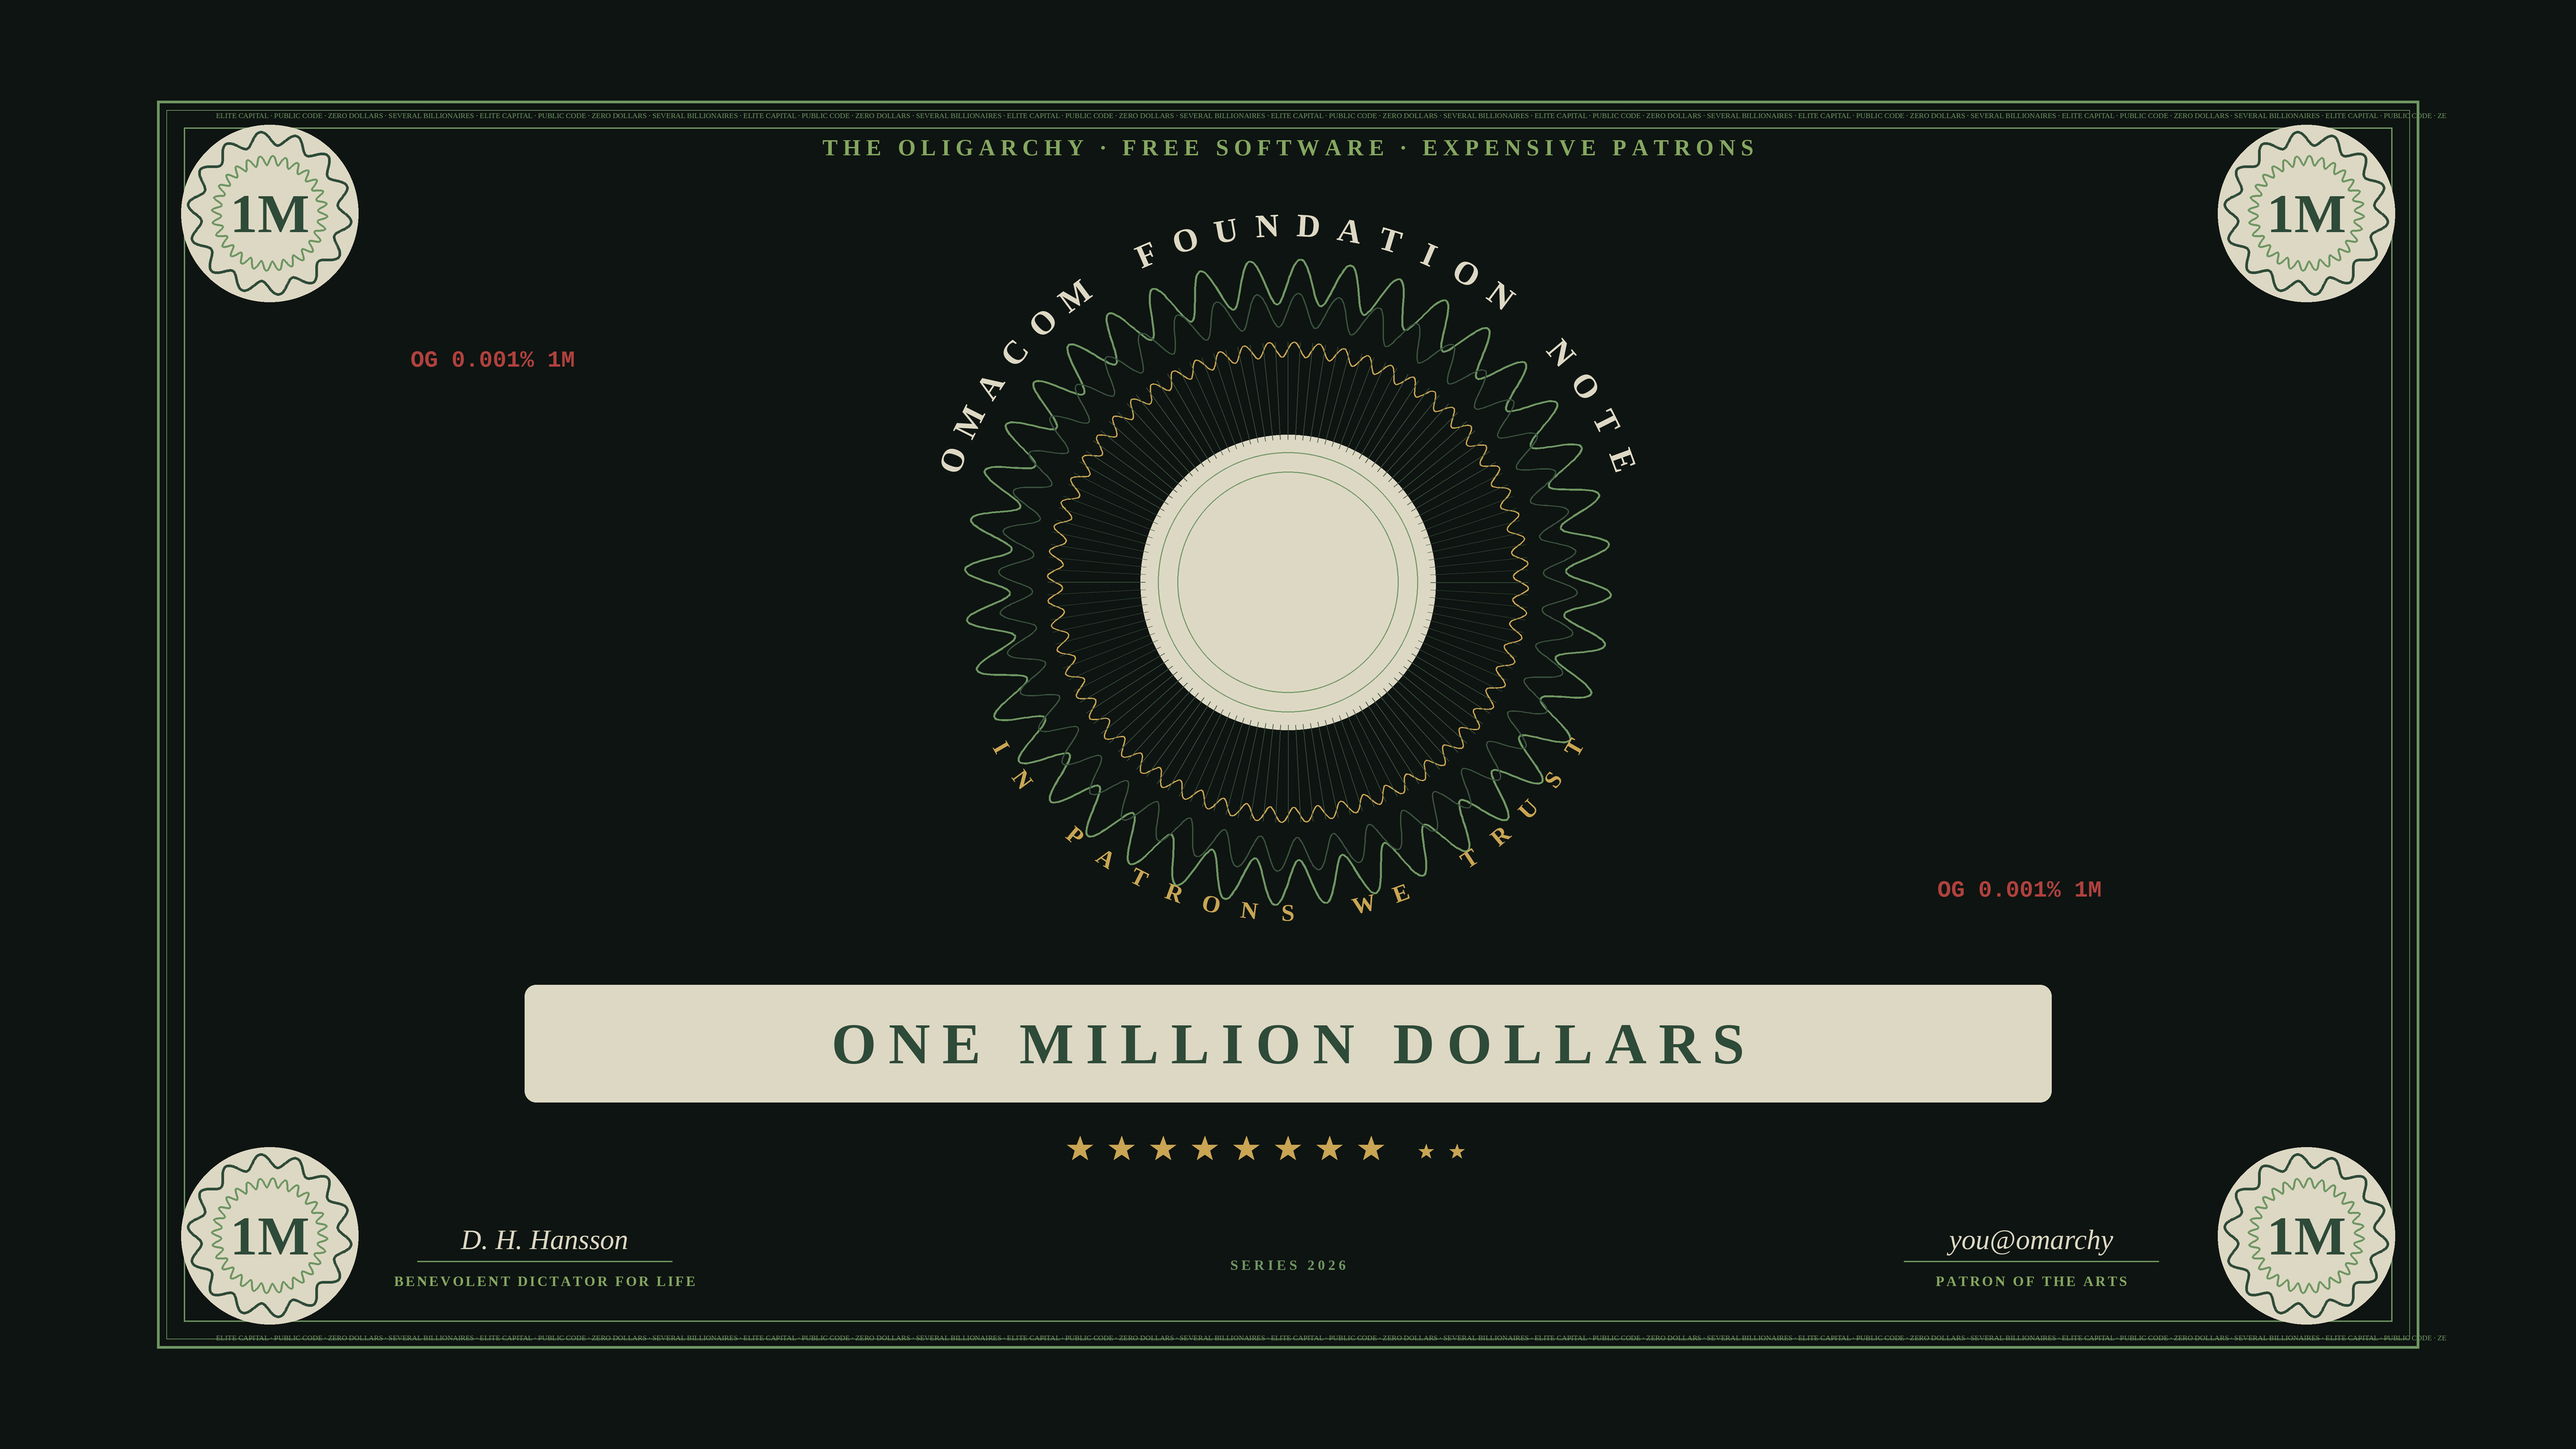
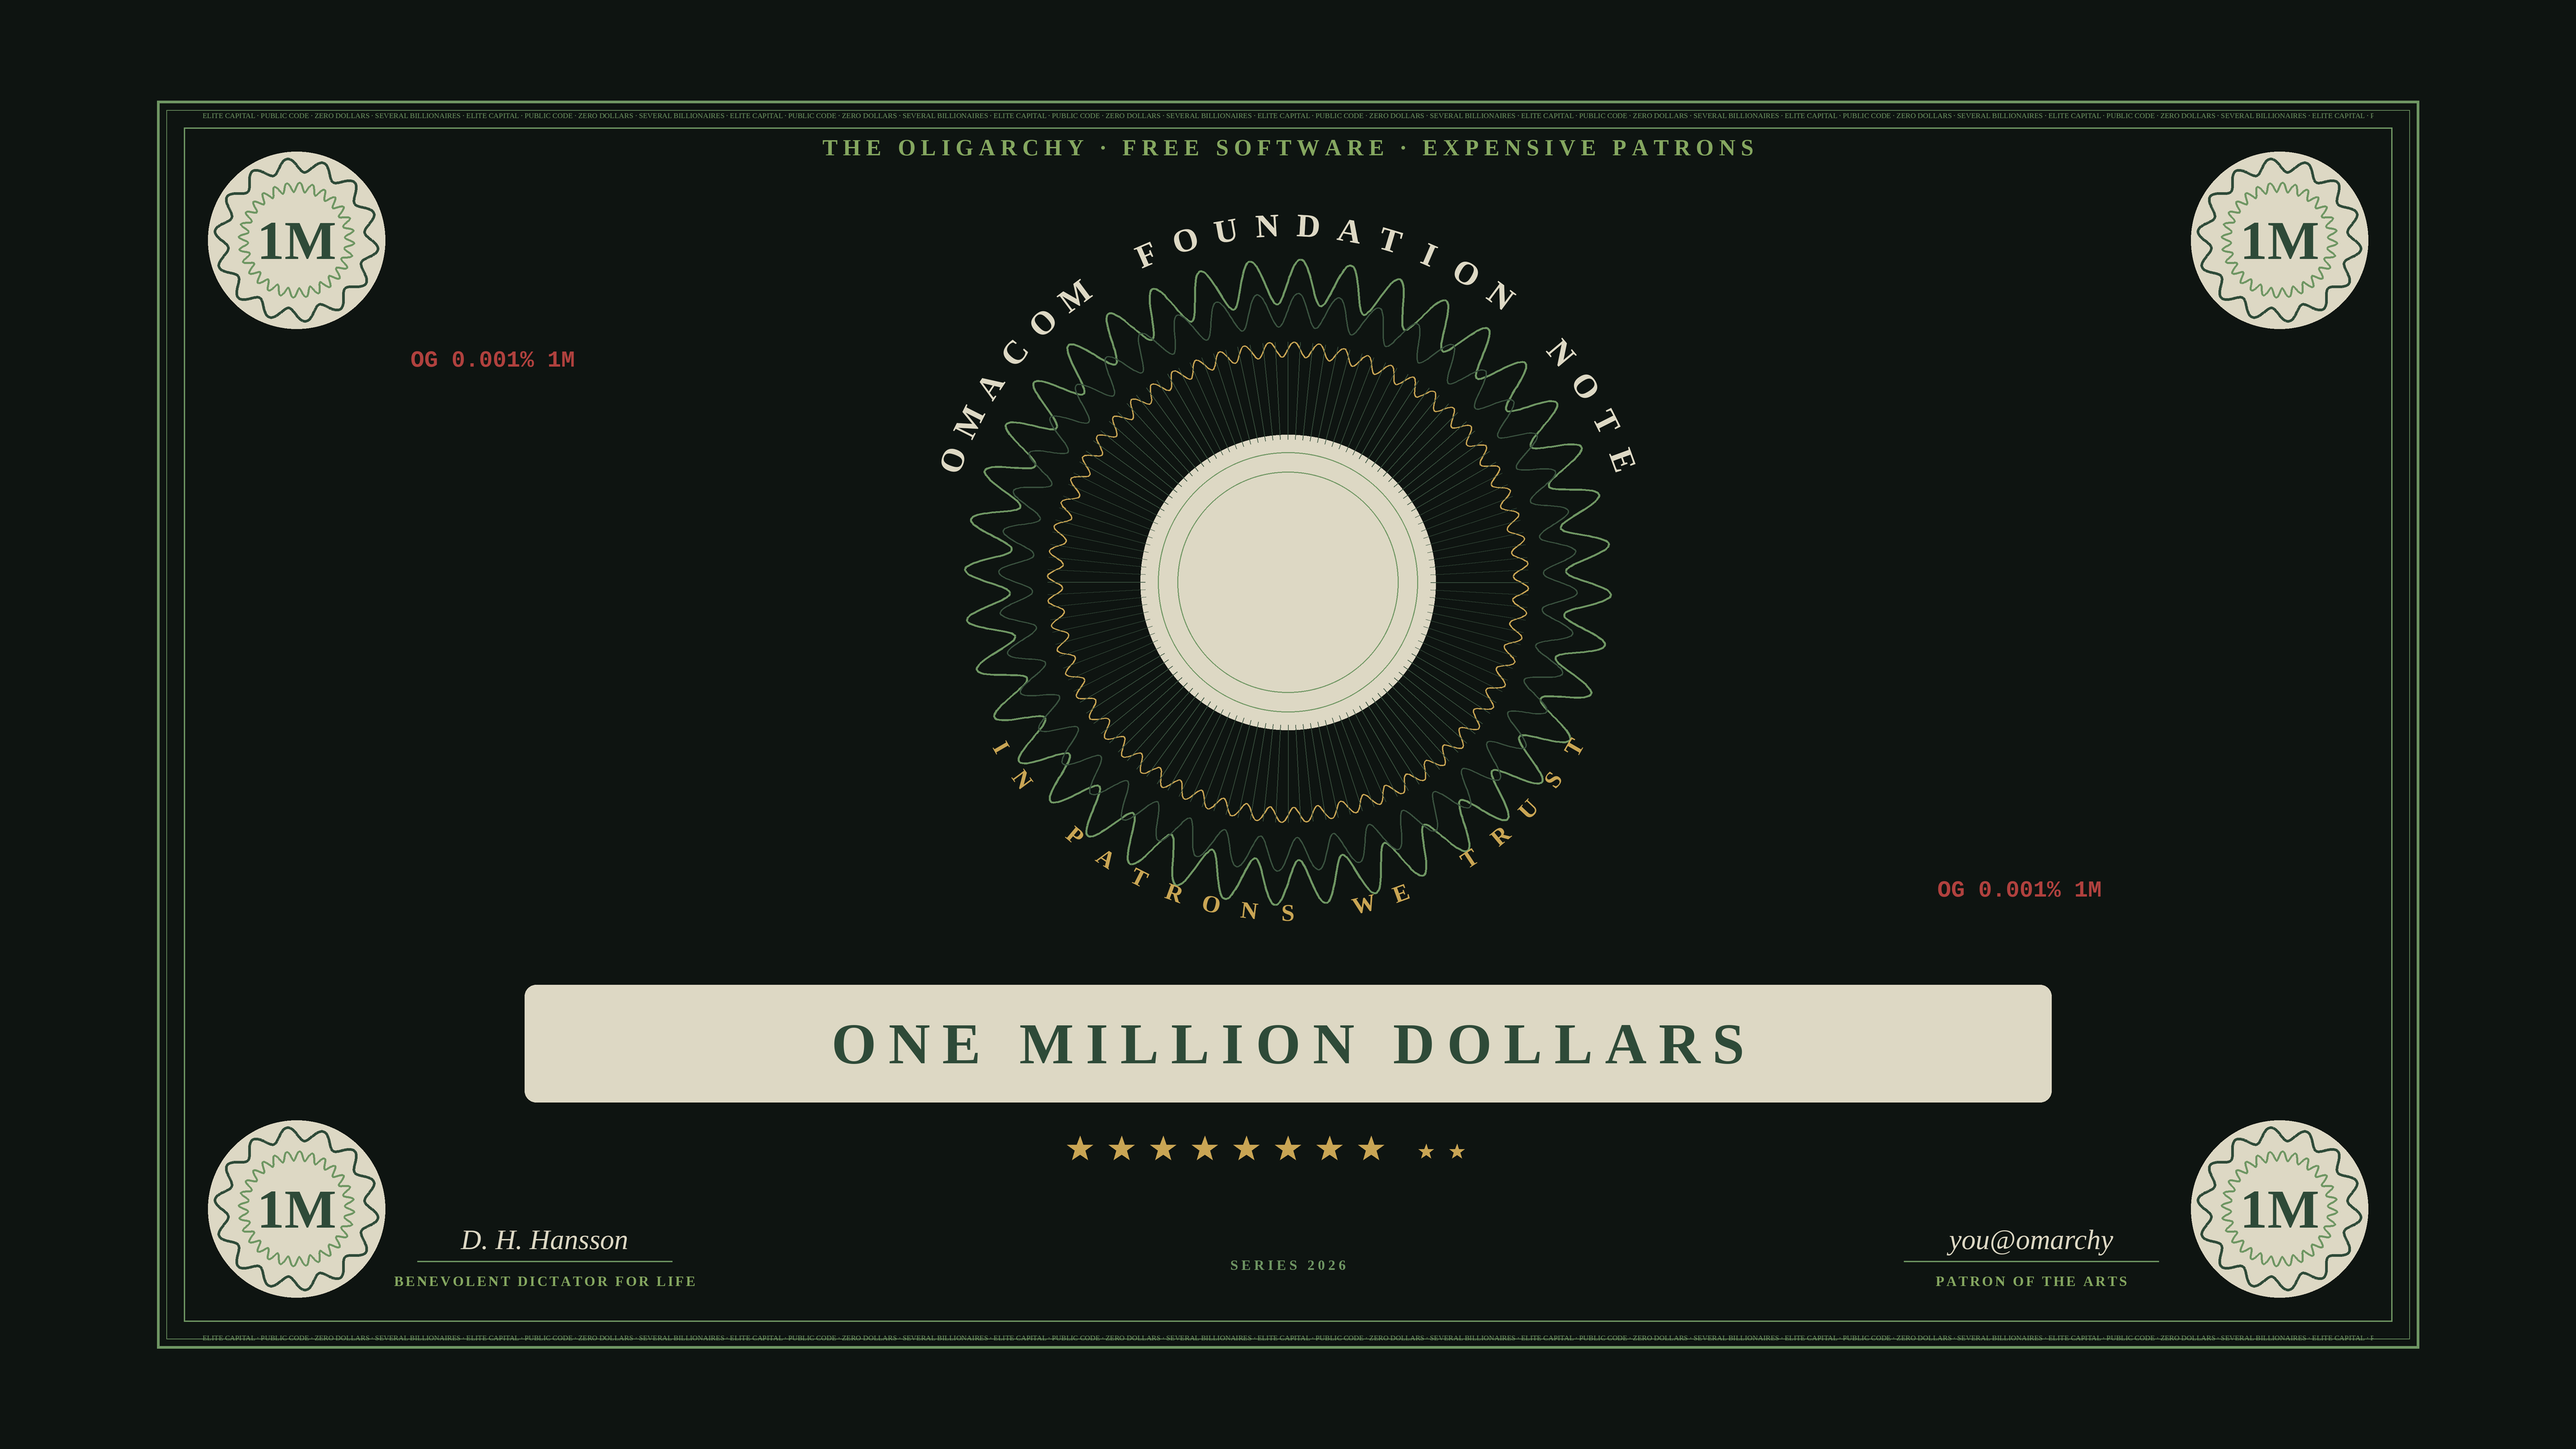
Keep microprint and value seals inside note border
Clip the hero microprint strip at its right bound and move the four 1M
seals 40px inward so they clear every border rule. No other composition
or theme asset changed.

diff --git a/bin/engrave.py b/bin/engrave.py
@@ -263,17 +263,31 @@ class Plate:
             )
             self.check_safe(m, m, self.w - m, self.h - m, "border rule")
 
-    def microprint(self, y, color=GREEN, size=11, text=None, x0=130, x1=None):
+    def microprint(self, y, color=GREEN, size=11, text=None, x0=130, x1=None,
+                   clip=False):
         """A line of tiny repeated text between the border rules. Decorative."""
         text = text or MICROPRINT
         fnt = self.font(SERIF_REG, size)
         x1 = x1 if x1 is not None else self.w - 130
         unit = self.d.textlength(text, font=fnt)
-        x = self.s(x0)
-        end = self.s(x1)
-        while x < end:
-            self.d.text((x, self.s(y)), text, font=fnt, fill=color)
-            x += unit
+        start = int(self.s(x0))
+        end = int(self.s(x1))
+        if clip:
+            # Tile on a bounded strip so the final repetition is clipped
+            # cleanly at x1 instead of spilling through the right border.
+            height = max(1, int(fnt.size * 1.6))
+            strip = Image.new("RGBA", (max(1, end - start), height), (0, 0, 0, 0))
+            sd = ImageDraw.Draw(strip)
+            x = 0
+            while x < strip.width:
+                sd.text((x, 0), text, font=fnt, fill=color)
+                x += unit
+            self.img.paste(strip, (start, int(self.s(y))), strip)
+        else:
+            x = start
+            while x < end:
+                self.d.text((x, self.s(y)), text, font=fnt, fill=color)
+                x += unit
         self.check_safe(x0, y - size, x1, y + size, "microprint")
 
     def patron_stars(self, cx, cy, color=GOLD):

diff --git a/bin/generate.py b/bin/generate.py
@@ -73,8 +73,8 @@ def scene_foundation_note(p):
     # A classic note hierarchy: header, seal, value, patrons, signatures.
     # Nothing crosses the medallion or denomination plaque.
     p.border(((42, 4), (56, 1), (82, 2)))
-    p.microprint(58)
-    p.microprint(H - 64)
+    p.microprint(58, x0=110, x1=W - 110, clip=True)
+    p.microprint(H - 64, x0=110, x1=W - 110, clip=True)
     p.text_at(
         W / 2,
         112,
@@ -86,10 +86,10 @@ def scene_foundation_note(p):
 
     # Four small value seals stay in the corners and out of the copy.
     for cx, cy in (
-        (210, 210),
-        (W - 210, 210),
-        (210, H - 210),
-        (W - 210, H - 210),
+        (250, 250),
+        (W - 250, 250),
+        (250, H - 250),
+        (W - 250, H - 250),
     ):
         p.d.ellipse(
             [p.s(cx - 132), p.s(cy - 132), p.s(cx + 132), p.s(cy + 132)],
